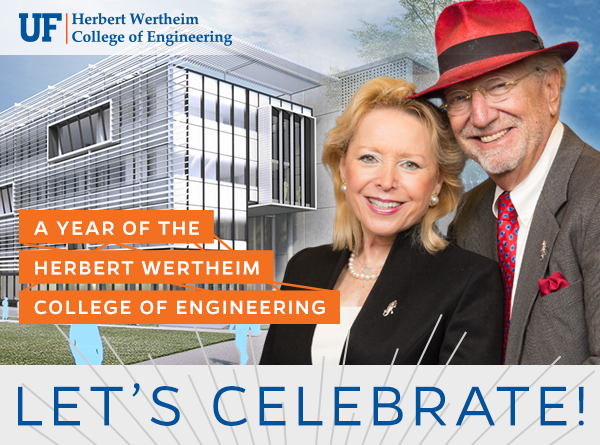
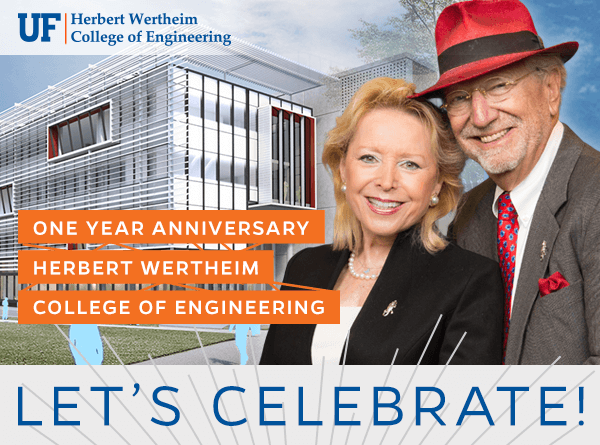
change "one year" to "one year anniversary" in header image and use red cased windows version of building

diff --git a/hwcoe-anniversary/hwcoe-anniversary.html b/hwcoe-anniversary/hwcoe-anniversary.html
@@ -263,7 +263,7 @@
 								</tr>
 								<tr>
 									<td class="content">
-										As we start to construct this new building and our capacity for teaching engineering excellence is raised, so are our glasses. <strong>A world of gratitude to Herbie &amp; Nicole!</strong> Here’s to the future and to the new engineers who are powered to transform it. 
+										<strong>A world of gratitude to Herbie &amp; Nicole!</strong> Here’s to the future and to the new engineers who are powered to transform it. 
 									</td>
 								</tr>
 								
